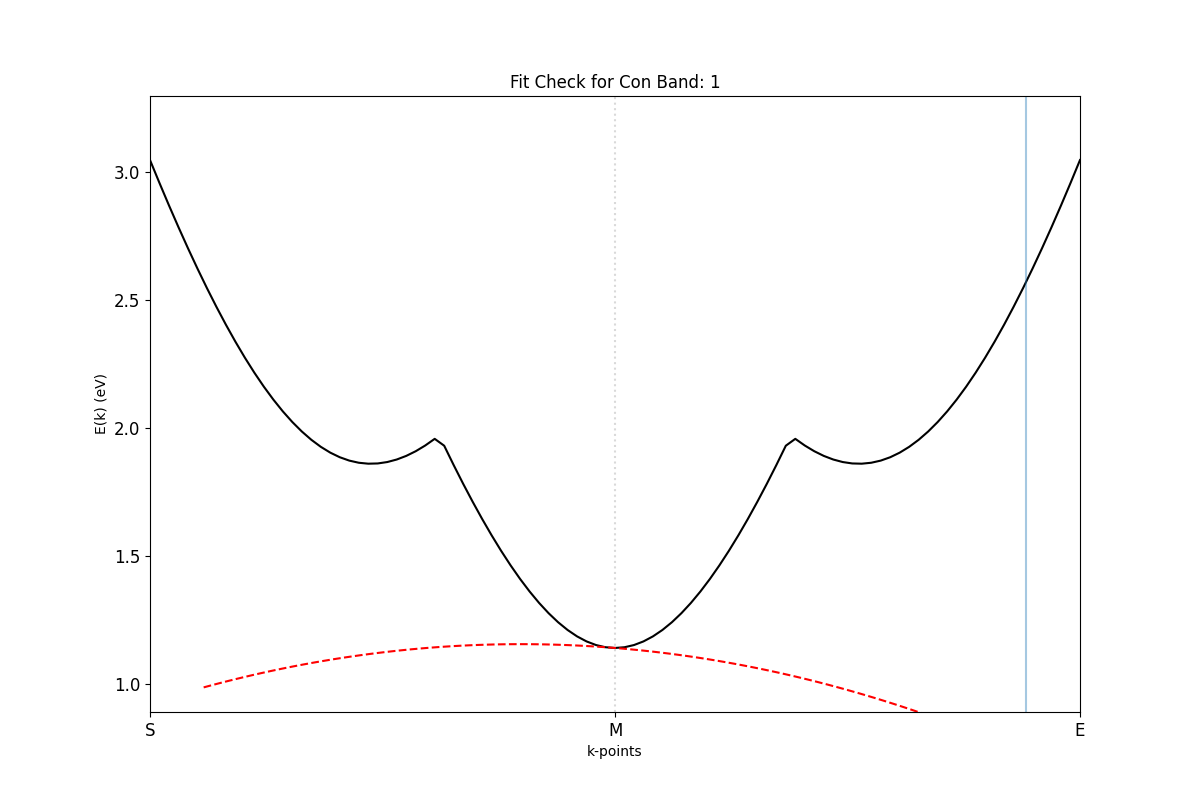
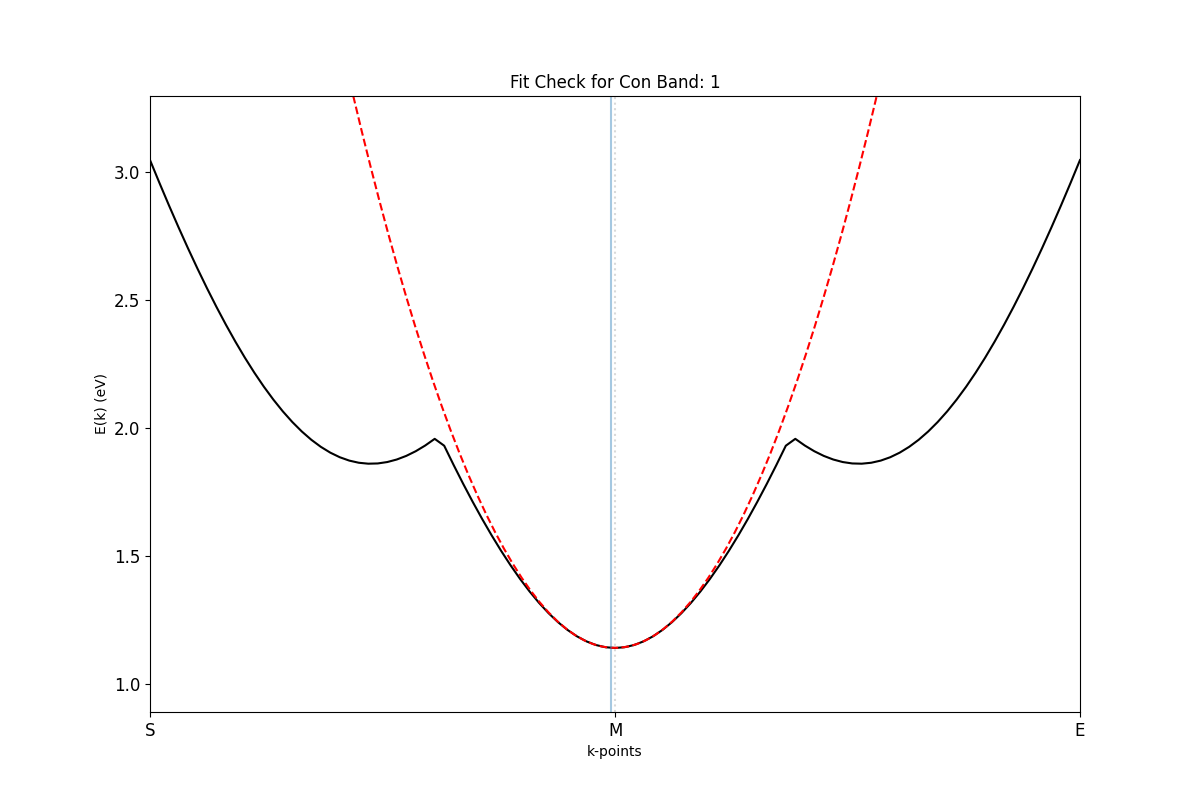
Fixed issues with fitting, added outputting of points used in fitting to file for gnuplot

Changed region(s): [[0.4625, 0.7812, 0.555, 0.8125]]

diff --git a/bandtool_update/output_utils.py b/bandtool_update/output_utils.py
@@ -1,5 +1,6 @@
 from bandtool_update.energy_utils import fit_parabola, fit_check, find_mass_eff
 from bandtool_update.kpath_utils import kpath_position
+import numpy as np
 import os, shutil, sys
 
 def get_band_results(kpoints, energies, kpoint_values, kpoint_labels, con_index, val_index, ndeg_con, ndeg_val, nkpts):
@@ -9,7 +10,9 @@ def get_band_results(kpoints, energies, kpoint_values, kpoint_labels, con_index,
     for i in range(ndeg_con):
         band_index = con_index+i
         extremum_kpoint_value, extremum_kpath_name, extremum_kpath_amount = kpath_position(kpoints[band_index], energies[band_index], kpoint_values, kpoint_labels)
-        fit_kpoints, fit_energies, lead_coeff = fit_parabola(kpoints[band_index], energies[band_index], extremum_kpoint_value, nkpts, kpoint_labels, ISCBM=1)
+        fit_kpoints, fit_energies, lead_coeff, fit_krange, fit_Erange = fit_parabola(kpoints[band_index], energies[band_index], extremum_kpoint_value, nkpts, kpoint_labels, ISCBM=1)
+        fit_data = np.column_stack((fit_krange, fit_Erange))
+        np.savetxt(f"Fit_Points_CBM{i}.txt", fit_data)
         fit_check(fit_kpoints, fit_energies, kpoints[band_index], energies[band_index], kpoint_values, kpoint_labels, f"Fit Check for Con Band: {i+1}", i, ISCBM=1)
         mass_eff, mass_ratio = find_mass_eff(lead_coeff)
         results = [band_index, mass_eff, mass_ratio, lead_coeff, extremum_kpoint_value, extremum_kpath_name, extremum_kpath_amount]
@@ -18,7 +21,9 @@ def get_band_results(kpoints, energies, kpoint_values, kpoint_labels, con_index,
     for i in range(ndeg_val):
         band_index = val_index-i
         extremum_kpoint_value, extremum_kpath_name, extremum_kpath_amount = kpath_position(kpoints[band_index], energies[band_index], kpoint_values, kpoint_labels)
-        fit_kpoints, fit_energies, lead_coeff = fit_parabola(kpoints[band_index], energies[band_index], extremum_kpoint_value, nkpts, kpoint_labels, ISCBM=0)
+        fit_kpoints, fit_energies, lead_coeff, fit_krange, fit_Erange = fit_parabola(kpoints[band_index], energies[band_index], extremum_kpoint_value, nkpts, kpoint_labels, ISCBM=0)
+        fit_data = np.column_stack((fit_krange, fit_Erange))
+        np.savetxt(f"Fit_Points_VBM{i}.txt", fit_data)
         fit_check(fit_kpoints, fit_energies, kpoints[band_index], energies[band_index], kpoint_values, kpoint_labels, f"Fit Check for Val Band: {i+1}", i, ISCBM=0)
         mass_eff, mass_ratio = find_mass_eff(lead_coeff)
         results = [band_index, mass_eff, mass_ratio, lead_coeff, extremum_kpoint_value, extremum_kpath_name, extremum_kpath_amount]
@@ -75,7 +80,7 @@ def build_total_results(nkpts, nbands, band_gap, ndeg_con, ndeg_val, cbm_values,
 
 def create_output_folder():
 
-    output_keywords = ["MY_REPORT", "Band_Plot", "Fit_Check"]
+    output_keywords = ["MY_REPORT", "Band_Plot", "Fit_Check", "Fit_Points"]
     output_dir = "./Output_Files/"
     
     # Check and/or create the output directory

diff --git a/bandtool_update/energy_utils.py b/bandtool_update/energy_utils.py
@@ -41,7 +41,6 @@ def parabola(x, a, b, c):
 
 def fit_check(fit_ks, fit_Es, con_ks, con_Es, kpoint_values, kpoint_labels, plot_name, index, ISCBM):
     mid_k = 0.
-    print("We are here")
     if sum(fit_Es) > 0:
         ind = np.where(fit_Es == min(fit_Es))
         mid_k = fit_ks[ind]
@@ -73,15 +72,13 @@ def fit_check(fit_ks, fit_Es, con_ks, con_Es, kpoint_values, kpoint_labels, plot
         plt.savefig("Fit_Check_CBM" + str(index) + ".png")
     else:
         plt.savefig("Fit_Check_VBM" + str(index) + ".png")
-    print("We got to this part")
-    print(fit_ks, fit_Es)
+    
 
 def fit_parabola(kpoints, energies, min_kpoint_value, nkpts, kpoint_labels, ISCBM):
-    print(f"IS THESE EVEN DOING ANYTHING WHAT THE HELL ISCBM IS: {ISCBM}")
     min_kpoint_index = np.where(kpoints == min_kpoint_value)[0][0]
     num_of_paths = len(kpoint_labels) - 1
     kpoints_per_path = nkpts / num_of_paths
-    num_of_points = int(kpoints_per_path // 20 - 1)
+    num_of_points = int(kpoints_per_path // 10 - 1)
     upper = int(min_kpoint_index + num_of_points + 1)
     lower = int(min_kpoint_index - num_of_points)
     # print(upper, lower)
@@ -93,21 +90,22 @@ def fit_parabola(kpoints, energies, min_kpoint_value, nkpts, kpoint_labels, ISCB
         bound1 = [0., -infinity, -infinity]
         bound2 = [infinity, infinity, infinity,]
         bounds_band = [bound1, bound2]
-        guess = [2.0, 0., 0.]
+        curvature_guess = (energies[lower] - 2*energies[min_kpoint_index] + energies[upper]) / ((kpoints[upper] - kpoints[lower])**2)
+        guess = [curvature_guess, 0., energies[min_kpoint_index]]
+
     else:
         bound1 = [-infinity, -infinity, -infinity]
         bound2 = [0., infinity, infinity]
         bounds_band = [bound1, bound2]
-        guess = [-2.0, 0., 0.]
+        curvature_guess = (energies[lower] - 2*energies[min_kpoint_index] + energies[upper]) / ((kpoints[upper] - kpoints[lower])**2)
+        guess = [curvature_guess, 0., energies[min_kpoint_index]]
 
     fit_params, fit_cov = curve_fit(parabola, fit_krange, fit_Erange, bounds=bounds_band, p0=guess)
     a_fit, b_fit, c_fit = fit_params
     fit_kpoints = np.linspace(kpoints[lower]-0.5, kpoints[upper]+0.5, 100)
-    # print(fit_kpoints)
     fit_energies = parabola(fit_kpoints, a_fit, b_fit, c_fit)
-    # print(fit_energies)
-    
-    return fit_kpoints, fit_energies, a_fit
+
+    return fit_kpoints, fit_energies, a_fit, fit_krange, fit_Erange
 
 def find_mass_eff(LC_Ek):
     d2Edk2 = 2. * LC_Ek * (1.602176634E-19) * ((1.0E-10)**2)   # Convert from LC (eVA^2) to Jm^2

diff --git a/bandtool_update/main.py b/bandtool_update/main.py
@@ -4,11 +4,10 @@ from bandtool_update.plotting import plot_bands
 from bandtool_update.output_utils import build_band_extrema_list, build_total_results, write_summary_to_file, create_output_folder, get_band_results
 
 def main():
-    print("Running main script")
+    print("Running main script...")
     all_kpoints, all_energies, NKPTS, NBANDS = find_ken_values("BAND.dat")
     all_kpoints_norm, all_energies_split = split_kE(all_kpoints, all_energies, NKPTS, NBANDS)
     kpoint_values, kpoint_labels = get_kpoint_labels("KLABELS")
-    print("I am here")
     all_energies_norm, val_index, NDEG_VAL, con_index, NDEG_CON, BAND_GAP = norm_energies(all_energies_split)
     plot_bands(all_kpoints_norm, all_energies_norm, kpoint_values, kpoint_labels, NKPTS)
     cbm_results, vbm_results = get_band_results(all_kpoints_norm, all_energies_norm, kpoint_values, kpoint_labels, con_index, val_index, NDEG_CON+1, NDEG_VAL+1, NKPTS)
